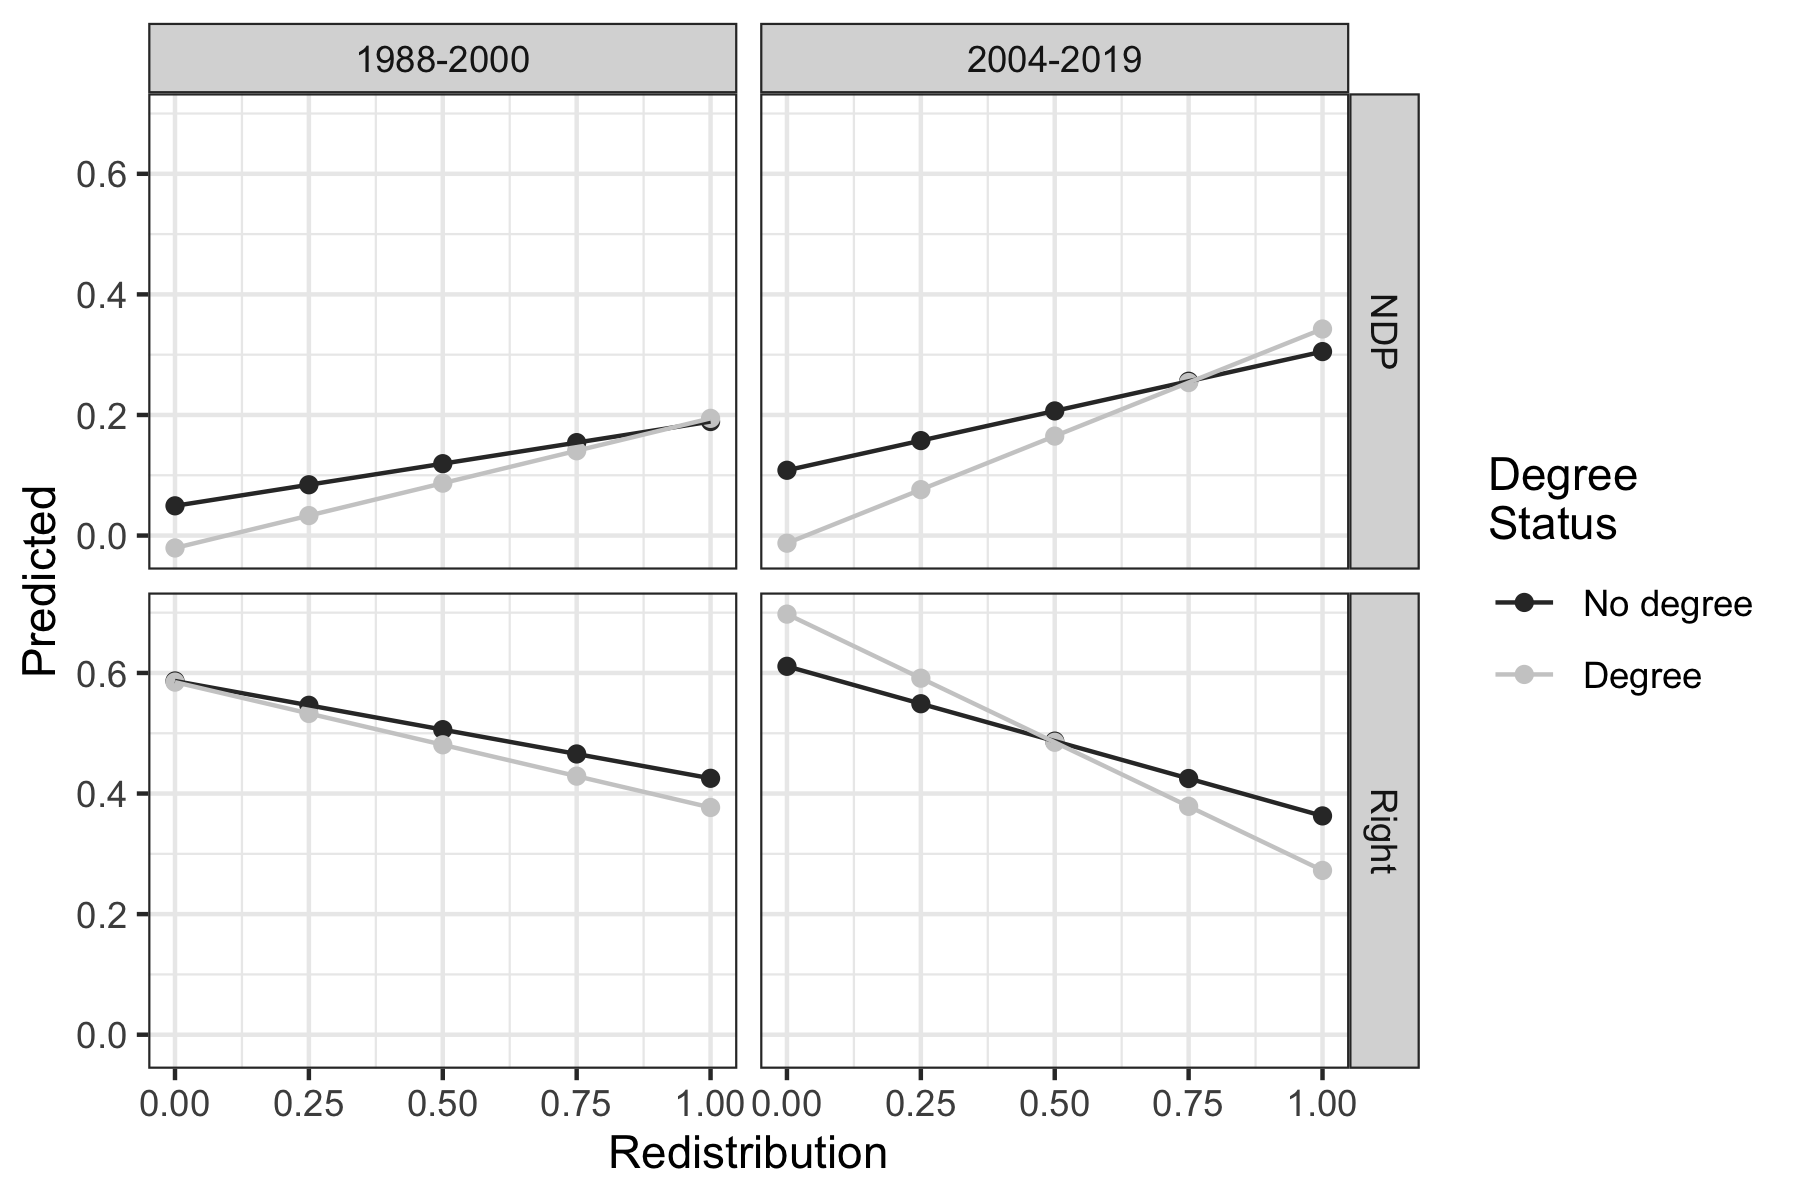
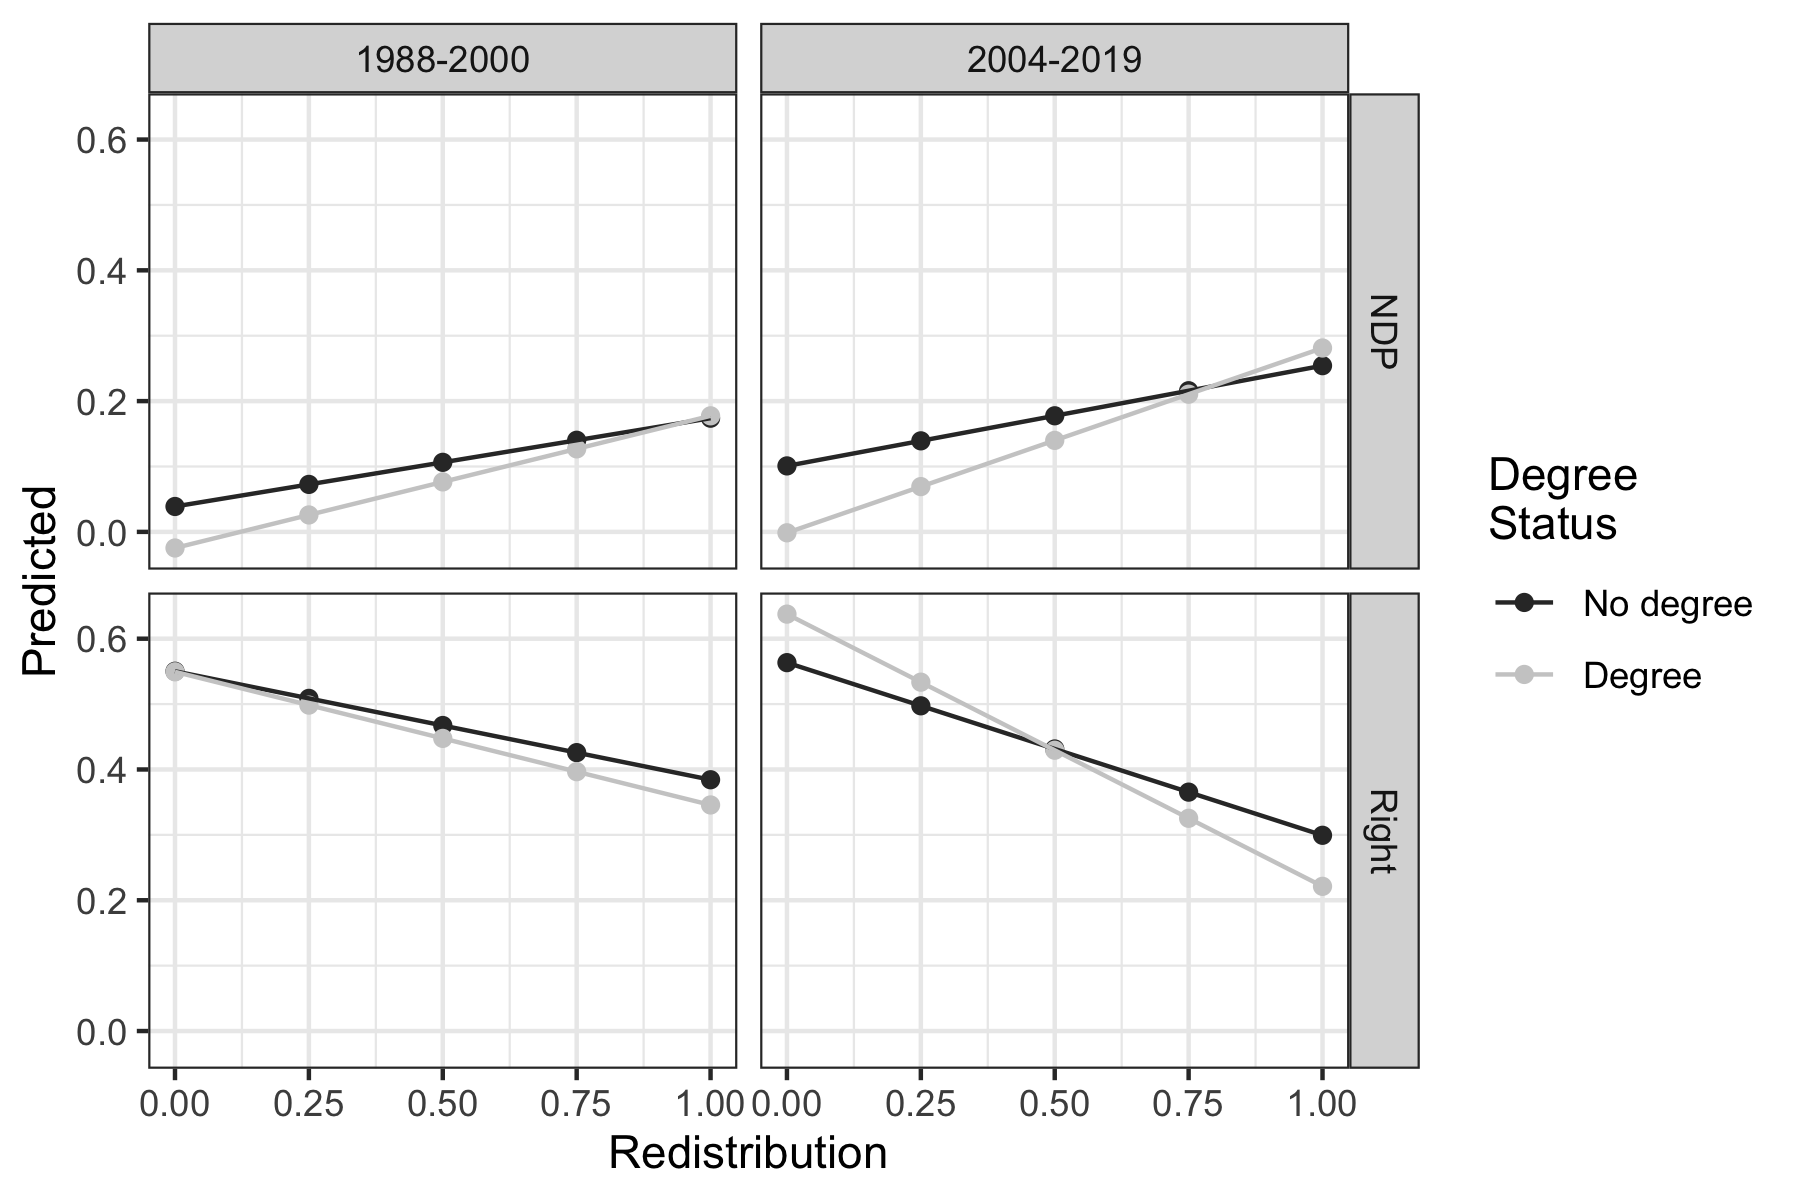
Caught the vote filter problem with BQ and Greens

diff --git a/Tables/pooled_party_vote_choice.html b/Tables/pooled_party_vote_choice.html
@@ -4,43 +4,43 @@
 <tr><td style="text-align:left"></td><td colspan="2">NDP</td><td colspan="2">Liberals</td><td colspan="2">Conservatives</td></tr>
 <tr><td style="text-align:left"></td><td>1988-1997</td><td>2004-2019</td><td>1988-1997</td><td>2004-2019</td><td>1988-1997</td><td>2004-2019</td></tr>
 <tr><td style="text-align:left"></td><td>(1)</td><td>(2)</td><td>(3)</td><td>(4)</td><td>(5)</td><td>(6)</td></tr>
-<tr><td colspan="7" style="border-bottom: 1px solid black"></td></tr><tr><td style="text-align:left">Degree</td><td>-0.02</td><td>-0.003</td><td>0.05<sup>*</sup></td><td>0.05<sup>***</sup></td><td>-0.03</td><td>-0.04<sup>***</sup></td></tr>
-<tr><td style="text-align:left"></td><td>(0.02)</td><td>(0.01)</td><td>(0.02)</td><td>(0.01)</td><td>(0.02)</td><td>(0.01)</td></tr>
+<tr><td colspan="7" style="border-bottom: 1px solid black"></td></tr><tr><td style="text-align:left">Degree</td><td>-0.02</td><td>-0.004</td><td>0.05<sup>**</sup></td><td>0.04<sup>***</sup></td><td>-0.03</td><td>-0.04<sup>***</sup></td></tr>
+<tr><td style="text-align:left"></td><td>(0.01)</td><td>(0.01)</td><td>(0.02)</td><td>(0.01)</td><td>(0.02)</td><td>(0.01)</td></tr>
 <tr><td style="text-align:left"></td><td></td><td></td><td></td><td></td><td></td><td></td></tr>
-<tr><td style="text-align:left">Income</td><td>-0.01</td><td>-0.02<sup>***</sup></td><td>-0.01</td><td>0.01</td><td>0.02<sup>**</sup></td><td>0.01<sup>**</sup></td></tr>
-<tr><td style="text-align:left"></td><td>(0.005)</td><td>(0.005)</td><td>(0.01)</td><td>(0.01)</td><td>(0.01)</td><td>(0.005)</td></tr>
+<tr><td style="text-align:left">Income</td><td>-0.01<sup>*</sup></td><td>-0.02<sup>***</sup></td><td>-0.01<sup>*</sup></td><td>0.01</td><td>0.02<sup>*</sup></td><td>0.02<sup>***</sup></td></tr>
+<tr><td style="text-align:left"></td><td>(0.004)</td><td>(0.004)</td><td>(0.01)</td><td>(0.004)</td><td>(0.01)</td><td>(0.004)</td></tr>
 <tr><td style="text-align:left"></td><td></td><td></td><td></td><td></td><td></td><td></td></tr>
-<tr><td style="text-align:left">Class (Managers)</td><td>-0.03</td><td>-0.07<sup>**</sup></td><td>0.02</td><td>0.09<sup>***</sup></td><td>0.003</td><td>-0.02</td></tr>
+<tr><td style="text-align:left">Class (Managers)</td><td>-0.02</td><td>-0.06<sup>**</sup></td><td>0.03</td><td>0.08<sup>***</sup></td><td>0.01</td><td>-0.01</td></tr>
 <tr><td style="text-align:left"></td><td>(0.02)</td><td>(0.02)</td><td>(0.03)</td><td>(0.02)</td><td>(0.03)</td><td>(0.02)</td></tr>
 <tr><td style="text-align:left"></td><td></td><td></td><td></td><td></td><td></td><td></td></tr>
-<tr><td style="text-align:left">Class (Professionals)</td><td>-0.02</td><td>-0.03</td><td>0.02</td><td>0.07<sup>**</sup></td><td>0.01</td><td>-0.04<sup>*</sup></td></tr>
-<tr><td style="text-align:left"></td><td>(0.02)</td><td>(0.02)</td><td>(0.03)</td><td>(0.02)</td><td>(0.03)</td><td>(0.02)</td></tr>
-<tr><td style="text-align:left"></td><td></td><td></td><td></td><td></td><td></td><td></td></tr>
-<tr><td style="text-align:left">Class (Self-Employed)</td><td>-0.07<sup>***</sup></td><td>-0.04<sup>*</sup></td><td>-0.03</td><td>0.03</td><td>0.10<sup>***</sup></td><td>0.01</td></tr>
+<tr><td style="text-align:left">Class (Professionals)</td><td>-0.02</td><td>-0.03</td><td>0.01</td><td>0.05<sup>**</sup></td><td>-0.001</td><td>-0.03</td></tr>
 <tr><td style="text-align:left"></td><td>(0.02)</td><td>(0.02)</td><td>(0.02)</td><td>(0.02)</td><td>(0.02)</td><td>(0.02)</td></tr>
 <tr><td style="text-align:left"></td><td></td><td></td><td></td><td></td><td></td><td></td></tr>
-<tr><td style="text-align:left">Class(Routine Non-Manual)</td><td>-0.05<sup>**</sup></td><td>-0.03</td><td>0.05</td><td>0.05<sup>**</sup></td><td>0.01</td><td>-0.02</td></tr>
-<tr><td style="text-align:left"></td><td>(0.02)</td><td>(0.02)</td><td>(0.03)</td><td>(0.02)</td><td>(0.03)</td><td>(0.02)</td></tr>
-<tr><td style="text-align:left"></td><td></td><td></td><td></td><td></td><td></td><td></td></tr>
-<tr><td style="text-align:left">Redistribution</td><td>0.16<sup>***</sup></td><td>0.27<sup>***</sup></td><td>0.01</td><td>0.06<sup>*</sup></td><td>-0.17<sup>***</sup></td><td>-0.32<sup>***</sup></td></tr>
-<tr><td style="text-align:left"></td><td>(0.02)</td><td>(0.02)</td><td>(0.03)</td><td>(0.03)</td><td>(0.03)</td><td>(0.03)</td></tr>
-<tr><td style="text-align:left"></td><td></td><td></td><td></td><td></td><td></td><td></td></tr>
-<tr><td style="text-align:left">Market Liberalism</td><td>-0.17<sup>***</sup></td><td>-0.25<sup>***</sup></td><td>-0.16<sup>***</sup></td><td>-0.07<sup>**</sup></td><td>0.33<sup>***</sup></td><td>0.32<sup>***</sup></td></tr>
-<tr><td style="text-align:left"></td><td>(0.02)</td><td>(0.02)</td><td>(0.03)</td><td>(0.02)</td><td>(0.03)</td><td>(0.02)</td></tr>
-<tr><td style="text-align:left"></td><td></td><td></td><td></td><td></td><td></td><td></td></tr>
-<tr><td style="text-align:left">Moral Traditionalism</td><td>-0.14<sup>***</sup></td><td>-0.20<sup>***</sup></td><td>0.12<sup>***</sup></td><td>-0.11<sup>***</sup></td><td>0.03</td><td>0.31<sup>***</sup></td></tr>
-<tr><td style="text-align:left"></td><td>(0.02)</td><td>(0.02)</td><td>(0.03)</td><td>(0.02)</td><td>(0.03)</td><td>(0.02)</td></tr>
-<tr><td style="text-align:left"></td><td></td><td></td><td></td><td></td><td></td><td></td></tr>
-<tr><td style="text-align:left">Immigration Rates</td><td>-0.03</td><td>0.001</td><td>-0.06<sup>**</sup></td><td>-0.15<sup>***</sup></td><td>0.09<sup>***</sup></td><td>0.15<sup>***</sup></td></tr>
+<tr><td style="text-align:left">Class (Self-Employed)</td><td>-0.07<sup>***</sup></td><td>-0.05<sup>**</sup></td><td>-0.02</td><td>0.01</td><td>0.10<sup>***</sup></td><td>0.01</td></tr>
 <tr><td style="text-align:left"></td><td>(0.02)</td><td>(0.02)</td><td>(0.02)</td><td>(0.02)</td><td>(0.02)</td><td>(0.02)</td></tr>
+<tr><td style="text-align:left"></td><td></td><td></td><td></td><td></td><td></td><td></td></tr>
+<tr><td style="text-align:left">Class(Routine Non-Manual)</td><td>-0.05<sup>**</sup></td><td>-0.02</td><td>0.04</td><td>0.05<sup>**</sup></td><td>0.01</td><td>-0.01</td></tr>
+<tr><td style="text-align:left"></td><td>(0.02)</td><td>(0.02)</td><td>(0.02)</td><td>(0.02)</td><td>(0.02)</td><td>(0.02)</td></tr>
+<tr><td style="text-align:left"></td><td></td><td></td><td></td><td></td><td></td><td></td></tr>
+<tr><td style="text-align:left">Redistribution</td><td>0.15<sup>***</sup></td><td>0.21<sup>***</sup></td><td>0.003</td><td>0.02</td><td>-0.18<sup>***</sup></td><td>-0.33<sup>***</sup></td></tr>
+<tr><td style="text-align:left"></td><td>(0.02)</td><td>(0.02)</td><td>(0.03)</td><td>(0.02)</td><td>(0.03)</td><td>(0.02)</td></tr>
+<tr><td style="text-align:left"></td><td></td><td></td><td></td><td></td><td></td><td></td></tr>
+<tr><td style="text-align:left">Market Liberalism</td><td>-0.15<sup>***</sup></td><td>-0.20<sup>***</sup></td><td>-0.12<sup>***</sup></td><td>-0.04<sup>*</sup></td><td>0.33<sup>***</sup></td><td>0.29<sup>***</sup></td></tr>
+<tr><td style="text-align:left"></td><td>(0.02)</td><td>(0.02)</td><td>(0.03)</td><td>(0.02)</td><td>(0.03)</td><td>(0.02)</td></tr>
+<tr><td style="text-align:left"></td><td></td><td></td><td></td><td></td><td></td><td></td></tr>
+<tr><td style="text-align:left">Moral Traditionalism</td><td>-0.14<sup>***</sup></td><td>-0.17<sup>***</sup></td><td>0.09<sup>***</sup></td><td>-0.10<sup>***</sup></td><td>0.001</td><td>0.29<sup>***</sup></td></tr>
+<tr><td style="text-align:left"></td><td>(0.02)</td><td>(0.02)</td><td>(0.03)</td><td>(0.02)</td><td>(0.03)</td><td>(0.02)</td></tr>
+<tr><td style="text-align:left"></td><td></td><td></td><td></td><td></td><td></td><td></td></tr>
+<tr><td style="text-align:left">Immigration Rates</td><td>-0.03</td><td>0.01</td><td>-0.06<sup>**</sup></td><td>-0.12<sup>***</sup></td><td>0.08<sup>***</sup></td><td>0.13<sup>***</sup></td></tr>
+<tr><td style="text-align:left"></td><td>(0.01)</td><td>(0.02)</td><td>(0.02)</td><td>(0.02)</td><td>(0.02)</td><td>(0.02)</td></tr>
 <tr><td style="text-align:left"></td><td></td><td></td><td></td><td></td><td></td><td></td></tr>
 <tr><td style="text-align:left">Constant</td><td></td><td></td><td></td><td></td><td></td><td></td></tr>
 <tr><td style="text-align:left"></td><td></td><td></td><td></td><td></td><td></td><td></td></tr>
 <tr><td style="text-align:left"></td><td></td><td></td><td></td><td></td><td></td><td></td></tr>
-<tr><td colspan="7" style="border-bottom: 1px solid black"></td></tr><tr><td style="text-align:left">Observations</td><td>3,438</td><td>6,079</td><td>3,438</td><td>6,079</td><td>3,438</td><td>6,079</td></tr>
-<tr><td style="text-align:left">R<sup>2</sup></td><td>0.10</td><td>0.13</td><td>0.08</td><td>0.10</td><td>0.11</td><td>0.24</td></tr>
-<tr><td style="text-align:left">Adjusted R<sup>2</sup></td><td>0.10</td><td>0.13</td><td>0.07</td><td>0.10</td><td>0.10</td><td>0.24</td></tr>
-<tr><td style="text-align:left">Residual Std. Error</td><td>0.34 (df = 3419)</td><td>0.41 (df = 6060)</td><td>0.47 (df = 3419)</td><td>0.45 (df = 6060)</td><td>0.47 (df = 3419)</td><td>0.43 (df = 6060)</td></tr>
-<tr><td style="text-align:left">F Statistic</td><td>22.16<sup>***</sup> (df = 18; 3419)</td><td>51.71<sup>***</sup> (df = 18; 6060)</td><td>16.20<sup>***</sup> (df = 18; 3419)</td><td>38.15<sup>***</sup> (df = 18; 6060)</td><td>22.52<sup>***</sup> (df = 18; 3419)</td><td>108.14<sup>***</sup> (df = 18; 6060)</td></tr>
+<tr><td colspan="7" style="border-bottom: 1px solid black"></td></tr><tr><td style="text-align:left">Observations</td><td>3,761</td><td>7,168</td><td>3,761</td><td>7,168</td><td>3,761</td><td>7,168</td></tr>
+<tr><td style="text-align:left">R<sup>2</sup></td><td>0.11</td><td>0.09</td><td>0.08</td><td>0.09</td><td>0.11</td><td>0.25</td></tr>
+<tr><td style="text-align:left">Adjusted R<sup>2</sup></td><td>0.10</td><td>0.09</td><td>0.07</td><td>0.09</td><td>0.11</td><td>0.25</td></tr>
+<tr><td style="text-align:left">Residual Std. Error</td><td>0.32 (df = 3742)</td><td>0.39 (df = 7149)</td><td>0.46 (df = 3742)</td><td>0.43 (df = 7149)</td><td>0.47 (df = 3742)</td><td>0.41 (df = 7149)</td></tr>
+<tr><td style="text-align:left">F Statistic</td><td>24.88<sup>***</sup> (df = 18; 3742)</td><td>38.76<sup>***</sup> (df = 18; 7149)</td><td>17.70<sup>***</sup> (df = 18; 3742)</td><td>39.58<sup>***</sup> (df = 18; 7149)</td><td>26.94<sup>***</sup> (df = 18; 3742)</td><td>131.90<sup>***</sup> (df = 18; 7149)</td></tr>
 <tr><td colspan="7" style="border-bottom: 1px solid black"></td></tr><tr><td style="text-align:left"><em>Note:</em></td><td colspan="6" style="text-align:right"><sup>*</sup>p<0.05; <sup>**</sup>p<0.01; <sup>***</sup>p<0.001</td></tr>
 </table>
